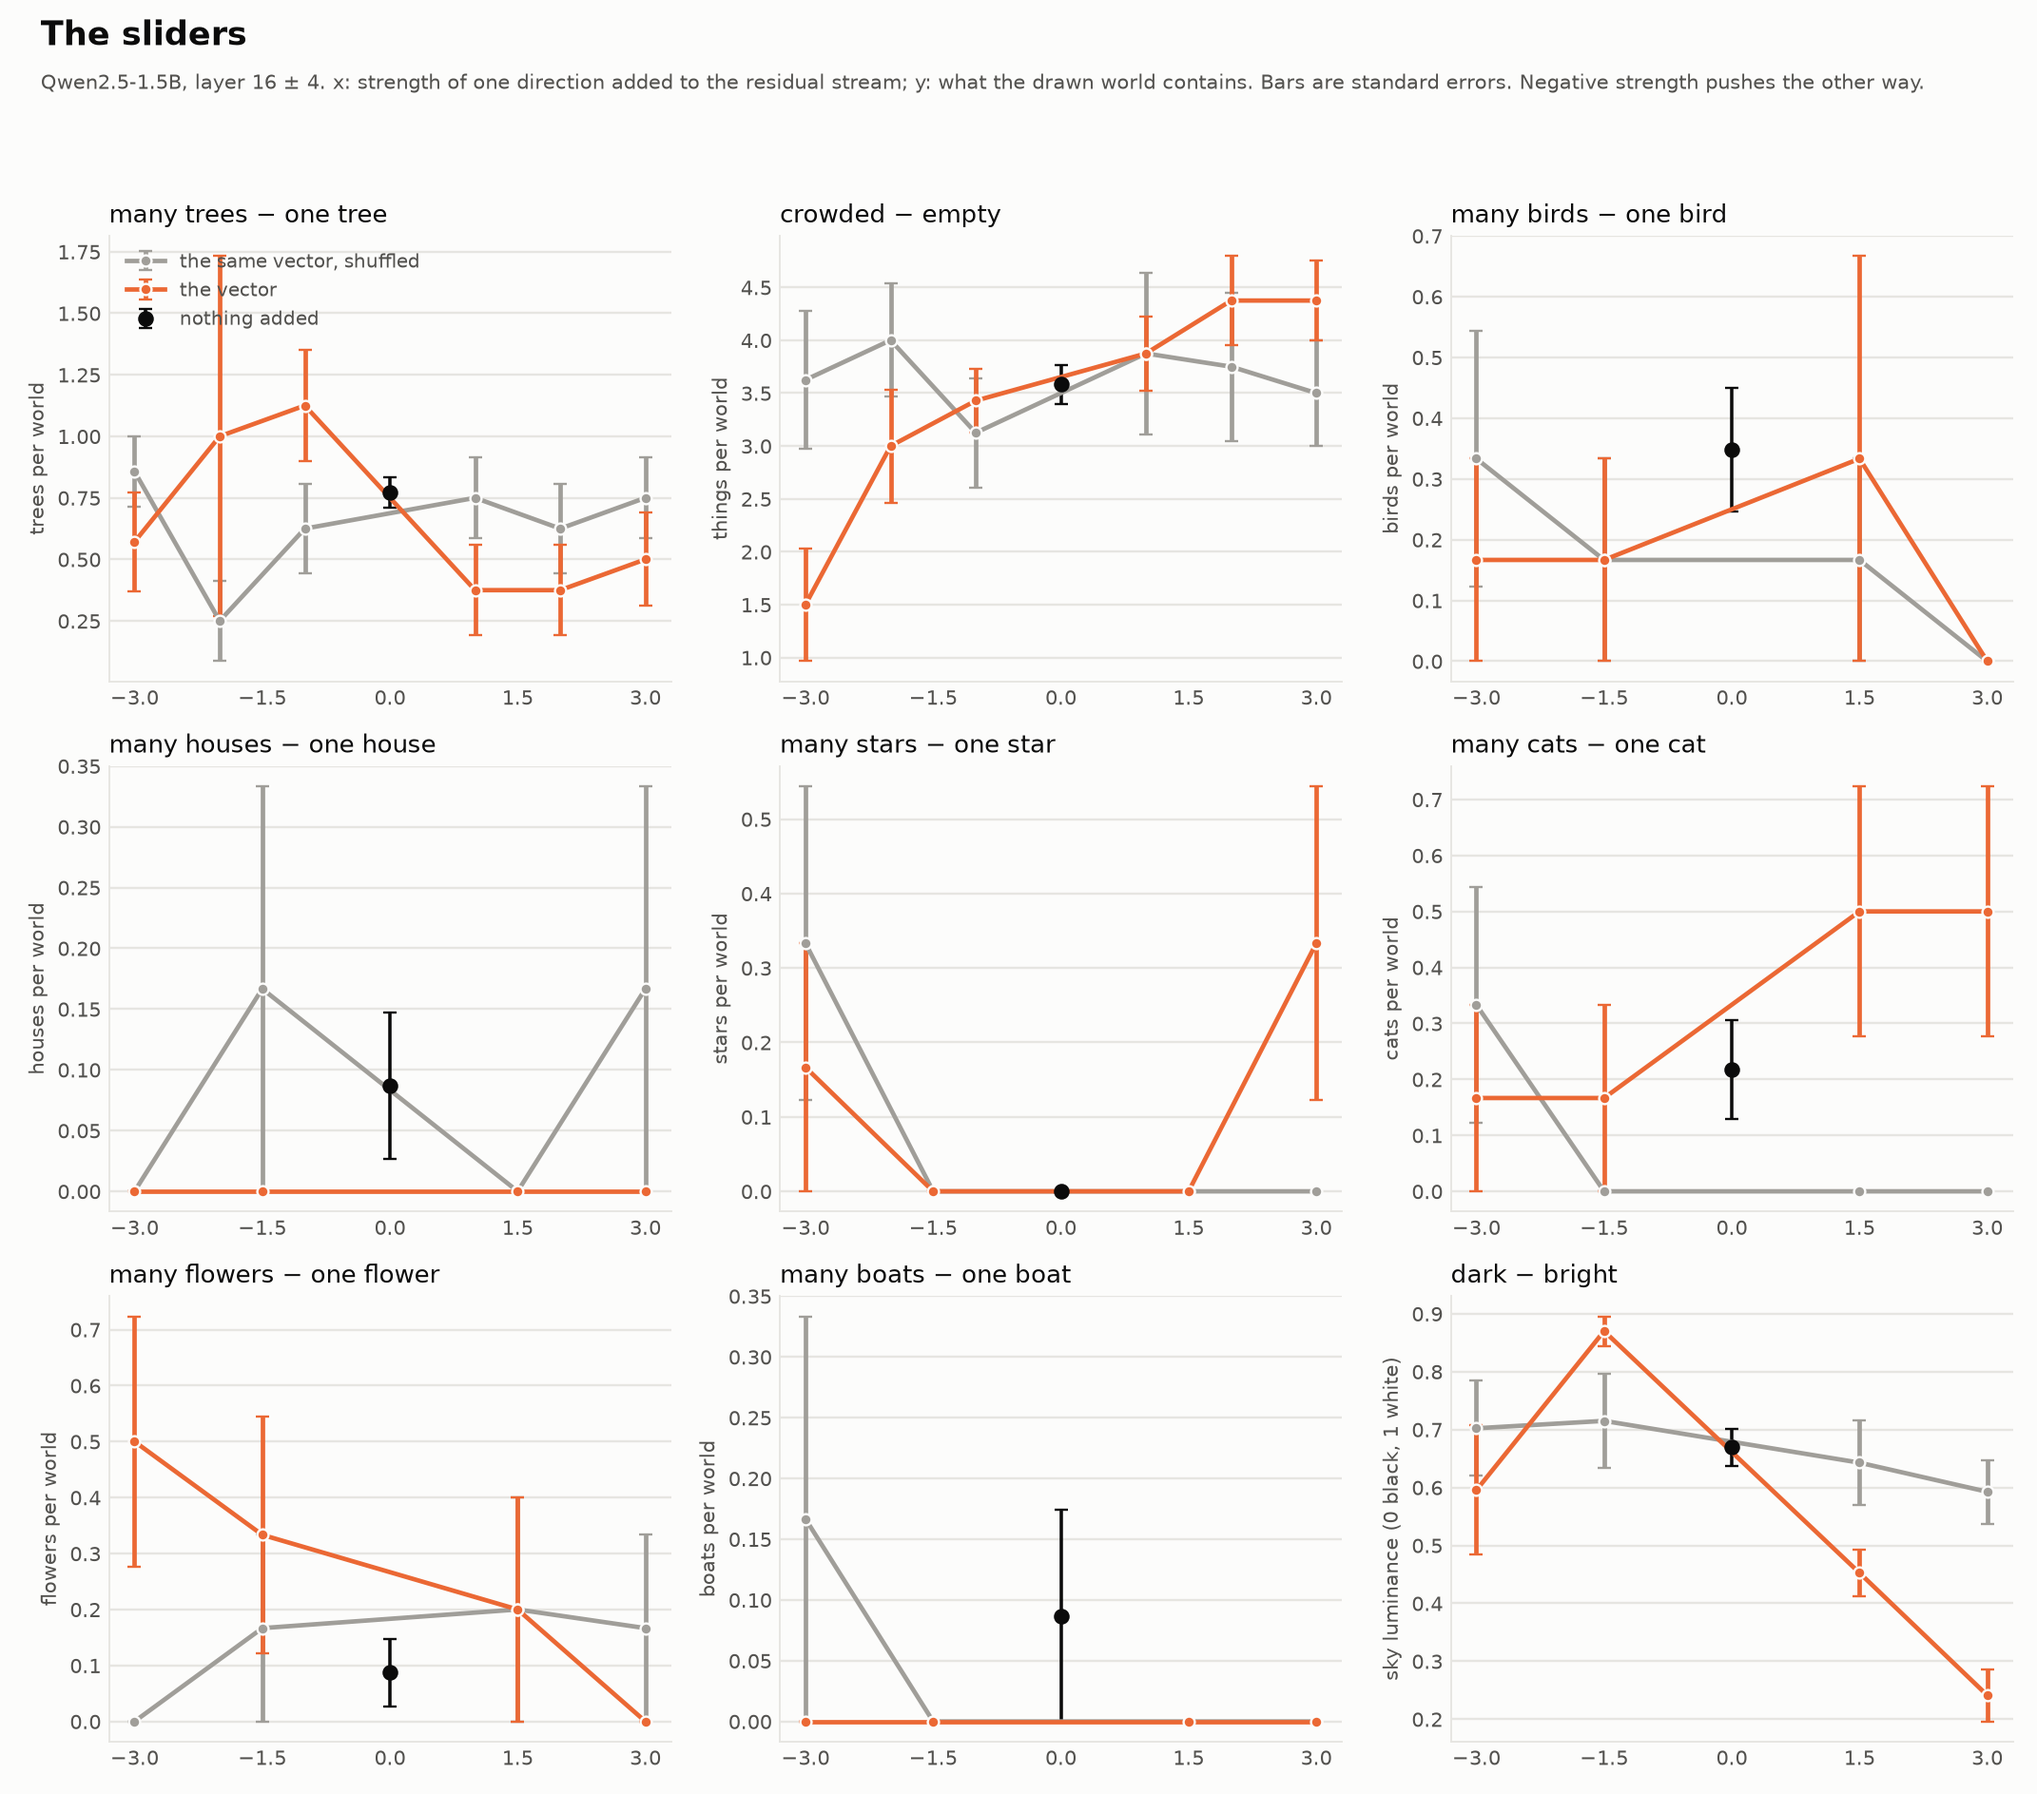
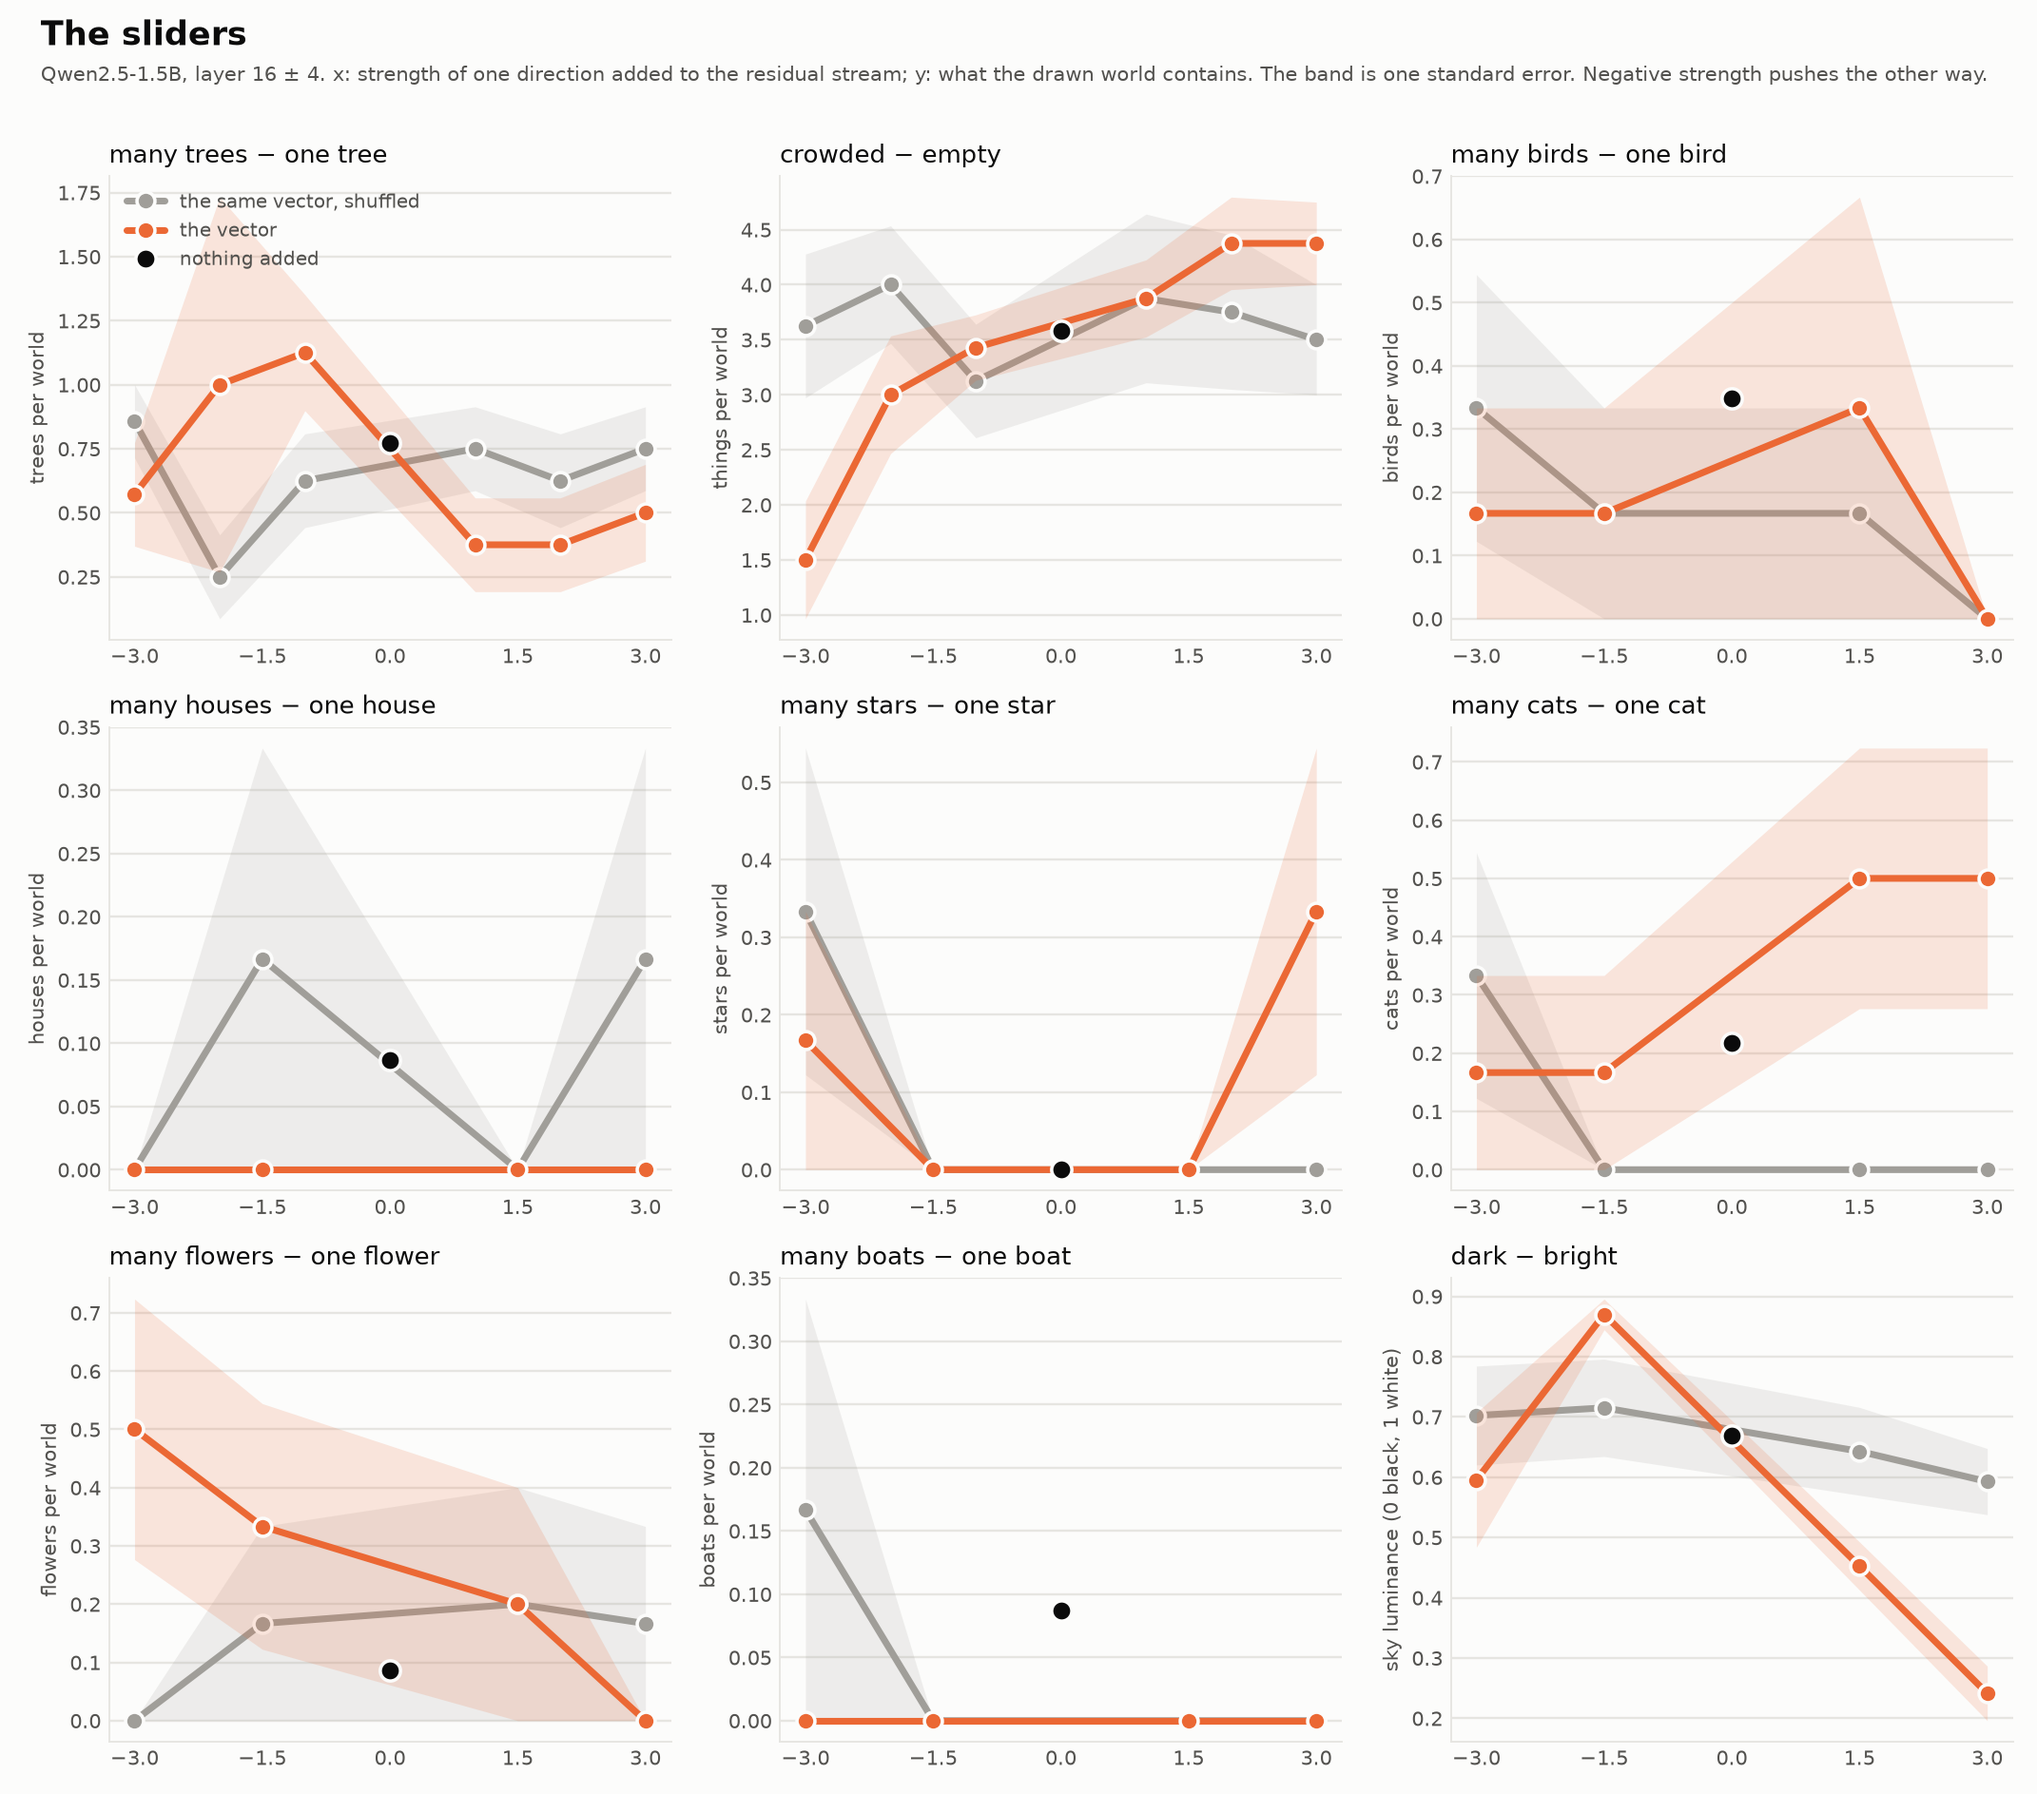
the curves get a band instead of whiskers

diff --git a/fig/plot_sliders.py b/fig/plot_sliders.py
@@ -67,17 +67,18 @@ def mean_se(v):
 
 
 def panel(ax, pts, title, ylabel):
-    for kind, color, label in (("placebo", ROTC, "the same vector, shuffled"), ("real", VEC, "the vector")):
+    for kind, color, label, z in (("placebo", ROTC, "the same vector, shuffled", 2), ("real", VEC, "the vector", 3)):
         xs = sorted(pts[kind])
         if not xs:
             continue
         ms = [mean_se(pts[kind][x]) for x in xs]
-        ax.errorbar(xs, [m for m, _ in ms], yerr=[s for _, s in ms], color=color, linewidth=2,
-                    marker="o", markersize=5, markeredgecolor=SURF, capsize=3, label=label)
+        ax.fill_between(xs, [m - s for m, s in ms], [m + s for m, s in ms], color=color, alpha=0.16, linewidth=0, zorder=z)
+        ax.plot(xs, [m for m, _ in ms], color=color, linewidth=3, marker="o", markersize=8,
+                markeredgecolor=SURF, markeredgewidth=1.5, label=label, zorder=z + 1, solid_capstyle="round")
     if pts["base"]:
         m, s = mean_se(pts["base"][0.0])
-        ax.errorbar([0], [m], yerr=[s], color=INK, marker="o", markersize=6, capsize=3, linestyle="none",
-                    label="nothing added")
+        ax.plot([0], [m], color=INK, marker="o", markersize=9, markeredgecolor=SURF, markeredgewidth=1.5,
+                linestyle="none", label="nothing added", zorder=6)
     ax.set_title(title, loc="left", color=INK, fontsize=11)
     ax.set_ylabel(ylabel, color=INK2, fontsize=9)
     ax.set_xticks([-3, -1.5, 0, 1.5, 3])
@@ -118,15 +119,15 @@ def main():
     fh = size[1]
     fig.suptitle(a.title, x=0.02, ha="left", fontsize=15, color=INK, fontweight="bold", y=1 - 0.12 / fh)
     if len(live) <= 2:
-        sub = "Qwen2.5-1.5B, layer 16 ± 4. Eight worlds per point, bars are standard errors."
+        sub = "Qwen2.5-1.5B, layer 16 ± 4. Eight worlds per point; the band is one standard error."
         for ax in axes[:len(live)]:
             ax.set_xlabel("strength of the vector (negative pushes the other way)", color=INK2)
         axes[0].legend(loc="best", frameon=False, fontsize=9.5, labelcolor=INK2)
     else:
         sub = ("Qwen2.5-1.5B, layer 16 ± 4. x: strength of one direction added to the residual stream; "
-               "y: what the drawn world contains. Bars are standard errors. Negative strength pushes the other way.")
+               "y: what the drawn world contains. The band is one standard error. Negative strength pushes the other way.")
     fig.text(0.02, 1 - 0.5 / fh, sub, color=INK2, fontsize=9)
-    fig.tight_layout(rect=(0, 0, 1, 1 - 0.62 / fh))
+    fig.tight_layout(rect=(0, 0, 1, 1 - 0.38 / fh), h_pad=1.2)
     out = pathlib.Path(a.out) if a.out else HERE / "docs" / "worldof-sliders.png"
     fig.savefig(out, dpi=170, facecolor=SURF)
     print(out)
